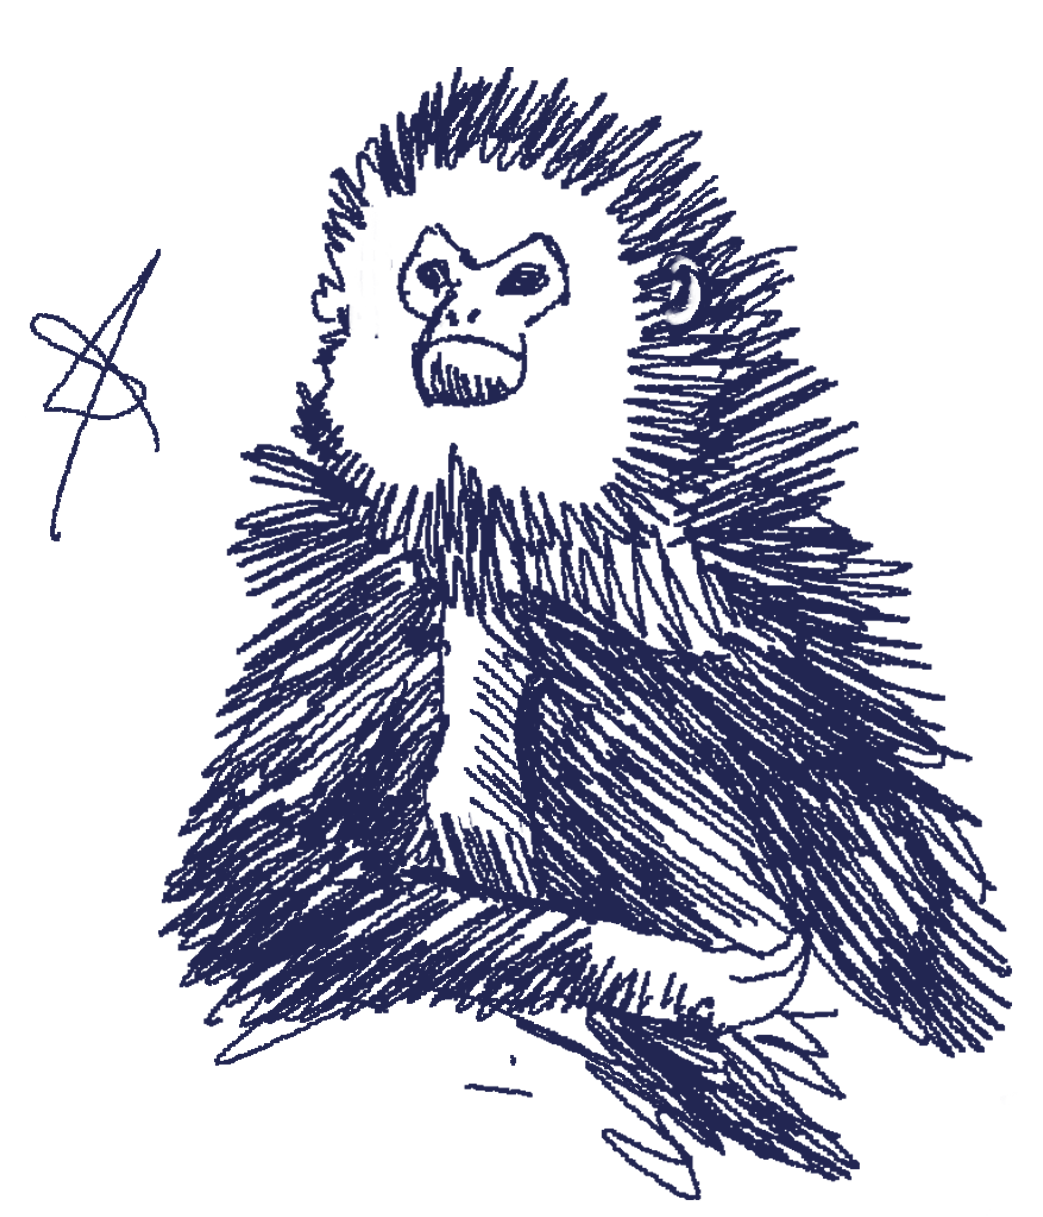
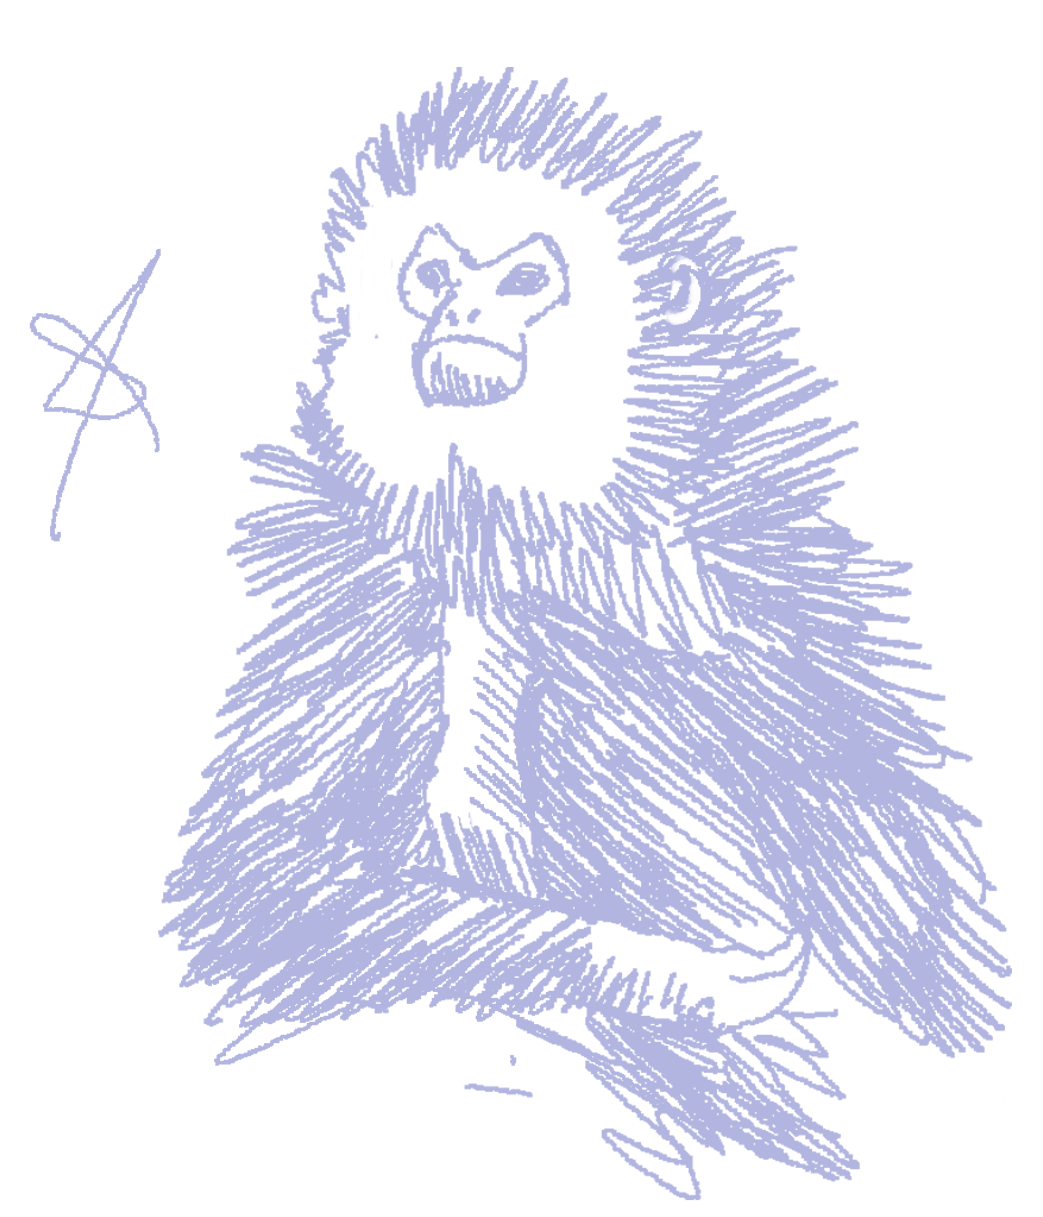
fix hand

diff --git a/script.js b/script.js
@@ -1,13 +1,25 @@
 document.addEventListener('DOMContentLoaded', () => {
     const handGibbon = document.querySelector('.hand-gibbon');
     const hero = document.querySelector('.hero');
+    const dragLayer = document.querySelector('.ink-drag-layer');
     const canvas = document.querySelector('.ink-canvas');
-    if (!handGibbon || !hero || !canvas) return;
+    const gibbonImg = document.querySelector('.gibbon');
+    if (!handGibbon || !hero || !dragLayer || !canvas || !gibbonImg) return;
 
     const ctx = canvas.getContext('2d');
 
-    // How far the canvas extends beyond hero's left/right edges (must match CSS)
-    const CANVAS_MARGIN_X = 300;
+    // How far .ink-drag-layer extends above the hero's own top edge (must
+    // match the CSS `top: -600px`). Gives room to drag the hand above the
+    // hero - including over the navbar - before it hits the layer's own
+    // clipping edge. The layer's bottom always lines up with the hero's
+    // bottom, so that edge stays a hard cutoff.
+    const LAYER_TOP_OFFSET = 600;
+
+    // Where the hand starts by default, as a fraction of the hero's own
+    // box (this used to live in CSS as `top: 28%; left: 18%;` on the hand
+    // itself, back when it was positioned directly within the hero).
+    const INITIAL_LEFT_FRACTION = 0.18;
+    const INITIAL_TOP_FRACTION = 0.28;
 
     // --- Pen tip calibration ---
     // These are fractions of the image's own width/height (0 to 1),
@@ -22,35 +34,85 @@ document.addEventListener('DOMContentLoaded', () => {
     let lastPenX = null;
     let lastPenY = null;
 
+    // Hand position, stored as a fraction of the gibbon image's own box,
+    // so the hand stays anchored to the same spot on the gibbon regardless
+    // of how the hero/gibbon get resized when the viewport changes.
+    let handFracX = null;
+    let handFracY = null;
+
+    function captureHandFraction() {
+        const gibbonRect = gibbonImg.getBoundingClientRect();
+        const handRect = handGibbon.getBoundingClientRect();
+        if (!gibbonRect.width || !gibbonRect.height) return;
+        handFracX = (handRect.left - gibbonRect.left) / gibbonRect.width;
+        handFracY = (handRect.top - gibbonRect.top) / gibbonRect.height;
+    }
+
+    function applyHandFraction() {
+        if (handFracX === null || handFracY === null) return;
+        const layerRect = dragLayer.getBoundingClientRect();
+        const gibbonRect = gibbonImg.getBoundingClientRect();
+        const newLeft = (gibbonRect.left - layerRect.left) + handFracX * gibbonRect.width;
+        const newTop = (gibbonRect.top - layerRect.top) + handFracY * gibbonRect.height;
+        handGibbon.style.left = newLeft + 'px';
+        handGibbon.style.top = newTop + 'px';
+    }
+
+    // Keeps .ink-drag-layer's bottom edge pinned exactly to the hero's
+    // bottom edge, however tall the hero happens to render.
+    function sizeDragLayer() {
+        const heroRect = hero.getBoundingClientRect();
+        dragLayer.style.height = (heroRect.height + LAYER_TOP_OFFSET) + 'px';
+    }
+
     function resizeCanvas() {
         // Preserve existing drawing across resize
         const prev = canvas.toDataURL();
-        canvas.width = hero.clientWidth + CANVAS_MARGIN_X * 2;
-        canvas.height = hero.clientHeight;
+        canvas.width = dragLayer.clientWidth;
+        canvas.height = dragLayer.clientHeight;
         const img = new Image();
         img.onload = () => ctx.drawImage(img, 0, 0);
         img.src = prev;
     }
-    resizeCanvas();
-    window.addEventListener('resize', resizeCanvas);
 
-    // Normalize initial position from % to px so drag math is consistent
-    const heroRectInit = hero.getBoundingClientRect();
-    const startRect = handGibbon.getBoundingClientRect();
-    handGibbon.style.left = (startRect.left - heroRectInit.left) + 'px';
-    handGibbon.style.top = (startRect.top - heroRectInit.top) + 'px';
+    function handleResize() {
+        sizeDragLayer();
+        resizeCanvas();
+        applyHandFraction();
+    }
+
+    sizeDragLayer();
+    resizeCanvas();
+    window.addEventListener('resize', handleResize);
+
+    // Place the hand at its default spot (relative to the hero), then
+    // remember where that puts it relative to the gibbon.
+    function initHandPosition() {
+        const heroRect = hero.getBoundingClientRect();
+        const layerRect = dragLayer.getBoundingClientRect();
+        const desiredLeft = heroRect.left + heroRect.width * INITIAL_LEFT_FRACTION;
+        const desiredTop = heroRect.top + heroRect.height * INITIAL_TOP_FRACTION;
+        handGibbon.style.left = (desiredLeft - layerRect.left) + 'px';
+        handGibbon.style.top = (desiredTop - layerRect.top) + 'px';
+        captureHandFraction();
+    }
+
+    if (gibbonImg.complete) {
+        initHandPosition();
+    } else {
+        gibbonImg.addEventListener('load', initHandPosition);
+    }
 
     function getPenPosition() {
-        const heroRect = hero.getBoundingClientRect();
+        const layerRect = dragLayer.getBoundingClientRect();
         const imgRect = handGibbon.getBoundingClientRect();
-        // Add CANVAS_MARGIN_X since the canvas origin is shifted left of hero's origin
-        const penX = (imgRect.left - heroRect.left) + imgRect.width * PEN_TIP_X_FRACTION + CANVAS_MARGIN_X;
-        const penY = (imgRect.top - heroRect.top) + imgRect.height * PEN_TIP_Y_FRACTION;
+        const penX = (imgRect.left - layerRect.left) + imgRect.width * PEN_TIP_X_FRACTION;
+        const penY = (imgRect.top - layerRect.top) + imgRect.height * PEN_TIP_Y_FRACTION;
         return { penX, penY };
     }
 
     function drawInkSegment(x1, y1, x2, y2) {
-        ctx.strokeStyle = 'rgba(94, 95, 124, 0.85)';
+        ctx.strokeStyle = 'rgba(177, 181, 223, 0.85)';
         ctx.lineWidth = 2 + Math.random() * 1; // slight thickness variation
         ctx.lineCap = 'round';
         ctx.lineJoin = 'round';
@@ -74,13 +136,13 @@ document.addEventListener('DOMContentLoaded', () => {
 
     const moveDrag = (clientX, clientY) => {
         if (!isDragging) return;
-        const heroRect = hero.getBoundingClientRect();
-        const newLeft = clientX - heroRect.left - offsetX; // unrestricted horizontally
-        let newTop = clientY - heroRect.top - offsetY;
-
-        // Clamp vertical movement so the hand stays within the hero section
-        const maxTop = hero.clientHeight - handGibbon.offsetHeight;
-        newTop = Math.max(0, Math.min(newTop, maxTop));
+        const layerRect = dragLayer.getBoundingClientRect();
+        // Fully unrestricted in every direction: .ink-drag-layer's own
+        // `overflow: hidden` crops the hand (and its ink) once it's dragged
+        // past the layer's edges, so it never visibly draws over content
+        // outside that layer (e.g. the featured-work section below).
+        const newLeft = clientX - layerRect.left - offsetX;
+        const newTop = clientY - layerRect.top - offsetY;
 
         handGibbon.style.left = newLeft + 'px';
         handGibbon.style.top = newTop + 'px';
@@ -98,6 +160,7 @@ document.addEventListener('DOMContentLoaded', () => {
         lastPenX = null;
         lastPenY = null;
         handGibbon.style.cursor = 'grab';
+        captureHandFraction();
     };
 
     // Mouse events

diff --git a/work.html b/work.html
@@ -10,7 +10,7 @@
     <!-- Navigation -->
     <nav class="navbar">
         <div class="nav-container">
-            <a href="index.html#home" class="nav-logo">H O M E</a>
+            <a href="index.html" class="nav-logo">H O M E</a>
             <ul class="nav-menu">
                 <li><a href="work.html" class="active">W O R K</a></li>
                 <li><a href="index.html#art">A R T</a></li>
@@ -31,8 +31,11 @@
         <section class="work-listing">
             <div class="work-listing-grid">
                 <a href="brilliance_exposed.html" class="work-listing-card">
-                    <div class="work-listing-card-thumb">
-                        <img src="brilliance_exposed.png" alt="Brilliance Exposed" class="work-listing-card-img">
+                    <div class="work-listing-card-media">
+                        <div class="work-listing-card-thumb">
+                            <img src="brilliance_exposed.png" alt="Brilliance Exposed" class="work-listing-card-img">
+                        </div>
+                        <img src="pushpin.png" alt="" class="work-listing-card-pin">
                     </div>
                     <h3 class="work-listing-card-title">Brilliance Exposed</h3>
                     <p class="work-listing-card-meta">Group Client Work &middot; 20 Weeks</p>
@@ -40,8 +43,11 @@
                 </a>
 
                 <a href="media_classifier.html" class="work-listing-card">
-                    <div class="work-listing-card-thumb">
-                        <img src="media_photo.png" alt="Media Classifier" class="work-listing-card-img">
+                    <div class="work-listing-card-media">
+                        <div class="work-listing-card-thumb">
+                            <img src="media_photo.png" alt="Media Classifier" class="work-listing-card-img">
+                        </div>
+                        <img src="pushpin.png" alt="" class="work-listing-card-pin">
                     </div>
                     <h3 class="work-listing-card-title">Media Classifier</h3>
                     <p class="work-listing-card-meta">Personal Project &middot; 10 Days</p>
@@ -49,13 +55,19 @@
                 </a>
 
                 <div class="work-listing-card work-listing-card-placeholder">
-                    <div class="work-listing-card-thumb work-listing-card-thumb-empty"></div>
+                    <div class="work-listing-card-media">
+                        <div class="work-listing-card-thumb work-listing-card-thumb-empty"></div>
+                        <img src="pushpin.png" alt="" class="work-listing-card-pin">
+                    </div>
                     <h3 class="work-listing-card-title">CVS App Redesign</h3>
                     <p class="work-listing-card-meta work-listing-card-meta-soon">Coming Soon</p>
                 </div>
 
                 <div class="work-listing-card work-listing-card-placeholder">
-                    <div class="work-listing-card-thumb work-listing-card-thumb-empty"></div>
+                    <div class="work-listing-card-media">
+                        <div class="work-listing-card-thumb work-listing-card-thumb-empty"></div>
+                        <img src="pushpin.png" alt="" class="work-listing-card-pin">
+                    </div>
                     <h3 class="work-listing-card-title">Seneca</h3>
                     <p class="work-listing-card-meta work-listing-card-meta-soon">Coming Soon</p>
                 </div>

diff --git a/styles.css b/styles.css
@@ -37,11 +37,22 @@ body {
 }
 
 .nav-logo {
+    position: relative;
     text-decoration: none;
     color: #333;
     font-size: 0.75rem;
     letter-spacing: 0.1rem;
     padding-bottom: 0.25rem;
+}
+
+.nav-logo.active::after {
+    content: "";
+    position: absolute;
+    left: -6%;
+    bottom: -0.4rem;
+    width: 112%;
+    height: 8px;
+    background: url("divider.svg") no-repeat center / 100% 100%;
 }
 
 .nav-menu {
@@ -83,7 +94,9 @@ body {
     padding: 1rem 5rem;
     position: relative;
     min-height: 750px;
-    overflow: hidden;
+    /* No overflow clipping here anymore - the .ink-drag-layer below handles
+       that, with generous headroom above so the hand/ink can move freely,
+       including over the navbar, while still cutting off at the bottom. */
 }
 
 .hero-content {
@@ -134,15 +147,30 @@ body {
     opacity: 0.6;
 }
 
+/* Wraps the ink canvas and draggable hand. Extends well above the hero's
+   own top edge (and above the navbar) and out to both sides, so the hand
+   can be dragged freely in every direction except the bottom, where this
+   layer's own edge lines up exactly with the hero's bottom - keeping the
+   ink/hand from ever being dragged over the featured-work section below.
+   Height is set in JS to track the hero's actual rendered height. */
+.ink-drag-layer {
+    position: absolute;
+    top: -600px;
+    left: -300px;
+    width: calc(100% + 600px);
+    overflow: hidden;
+    z-index: 150; /* above the navbar (100) so the hand can be dragged on top of it */
+    pointer-events: none; /* let clicks pass through to the nav/hero beneath, except on the hand itself */
+}
+
 .hand-gibbon {
     position: absolute;
-    top: 28%;
-    left: 18%;
+    /* top/left are set in JS */
     height: 300px;
-    z-index: 5;
     cursor: grab;
     user-select: none;
     touch-action: none;
+    pointer-events: auto;
 }
 
 .hand-gibbon:active {
@@ -152,11 +180,9 @@ body {
 .ink-canvas {
     position: absolute;
     top: 0;
-    left: -300px;
-    width: calc(100% + 600px);
+    left: 0;
+    width: 100%;
     height: 100%;
-    z-index: 4; /* below hand (5), above gibbon/illustration */
-    pointer-events: none; /* let drags pass through to the hand image */
 }
 
 /* Featured Work Section */
@@ -672,6 +698,11 @@ body {
     color: inherit;
 }
 
+.work-listing-card-media {
+    position: relative;
+    margin-bottom: 1.5rem;
+}
+
 .work-listing-card-thumb {
     width: 100%;
     aspect-ratio: 4 / 3;
@@ -679,7 +710,6 @@ body {
     border: 1px solid #ddd;
     border-radius: 12px;
     overflow: hidden;
-    margin-bottom: 1.5rem;
     box-shadow: 0 4px 12px rgba(0, 0, 0, 0.06);
     transition: transform 0.3s ease, box-shadow 0.3s ease;
 }
@@ -694,6 +724,24 @@ body {
 a.work-listing-card:hover .work-listing-card-thumb {
     transform: translateY(-4px);
     box-shadow: 0 10px 24px rgba(0, 0, 0, 0.1);
+}
+
+.work-listing-card-pin {
+    position: absolute;
+    top: -42px;
+    right: -4%;
+    width: 60px;
+    height: auto;
+    opacity: 0;
+    transform: scale(0.6) rotate(-28deg);
+    rotate: 28deg;
+    pointer-events: none;
+    z-index: 5;
+}
+
+.work-listing-card:hover .work-listing-card-pin {
+    opacity: 1;
+    transform: scale(1) rotate(-8deg);
 }
 
 .work-listing-card-title {

diff --git a/index.html b/index.html
@@ -10,7 +10,7 @@
     <!-- Navigation -->
     <nav class="navbar">
         <div class="nav-container">
-            <a href="#home" class="nav-logo">H O M E</a>
+            <a href="index.html" class="nav-logo active">H O M E</a>
             <ul class="nav-menu">
                 <li><a href="work.html">W O R K</a></li>
                 <li><a href="#art">A R T</a></li>
@@ -29,8 +29,10 @@
         <div class="hero-illustration">
             <img src="gibbon.png" alt="Gibbon Illustration" class="gibbon">
         </div>
-        <img src="hand_gibbon.png" alt="Hand Gibbon Illustration" class="hand-gibbon">
-        <canvas class="ink-canvas"></canvas>
+        <div class="ink-drag-layer">
+            <canvas class="ink-canvas"></canvas>
+            <img src="hand_gibbon.png" alt="Hand Gibbon Illustration" class="hand-gibbon">
+        </div>
     </section>
 
     <!-- Featured Work Section -->

diff --git a/brilliance_exposed.html b/brilliance_exposed.html
@@ -10,7 +10,7 @@
     <!-- Navigation -->
     <nav class="navbar">
         <div class="nav-container">
-            <a href="#home" class="nav-logo">H O M E</a>
+            <a href="index.html" class="nav-logo">H O M E</a>
             <ul class="nav-menu">
                 <li><a href="work.html">W O R K</a></li>
                 <li><a href="#art">A R T</a></li>

diff --git a/media_classifier.html b/media_classifier.html
@@ -10,7 +10,7 @@
     <!-- Navigation -->
     <nav class="navbar">
         <div class="nav-container">
-            <a href="#home" class="nav-logo">H O M E</a>
+            <a href="index.html" class="nav-logo">H O M E</a>
             <ul class="nav-menu">
                 <li><a href="work.html">W O R K</a></li>
                 <li><a href="#art">A R T</a></li>

diff --git a/media_dataset.html b/media_dataset.html
@@ -10,7 +10,7 @@
     <!-- Navigation -->
     <nav class="navbar">
         <div class="nav-container">
-            <a href="#home" class="nav-logo">H O M E</a>
+            <a href="index.html" class="nav-logo">H O M E</a>
             <ul class="nav-menu">
                 <li><a href="work.html">W O R K</a></li>
                 <li><a href="#art">A R T</a></li>
